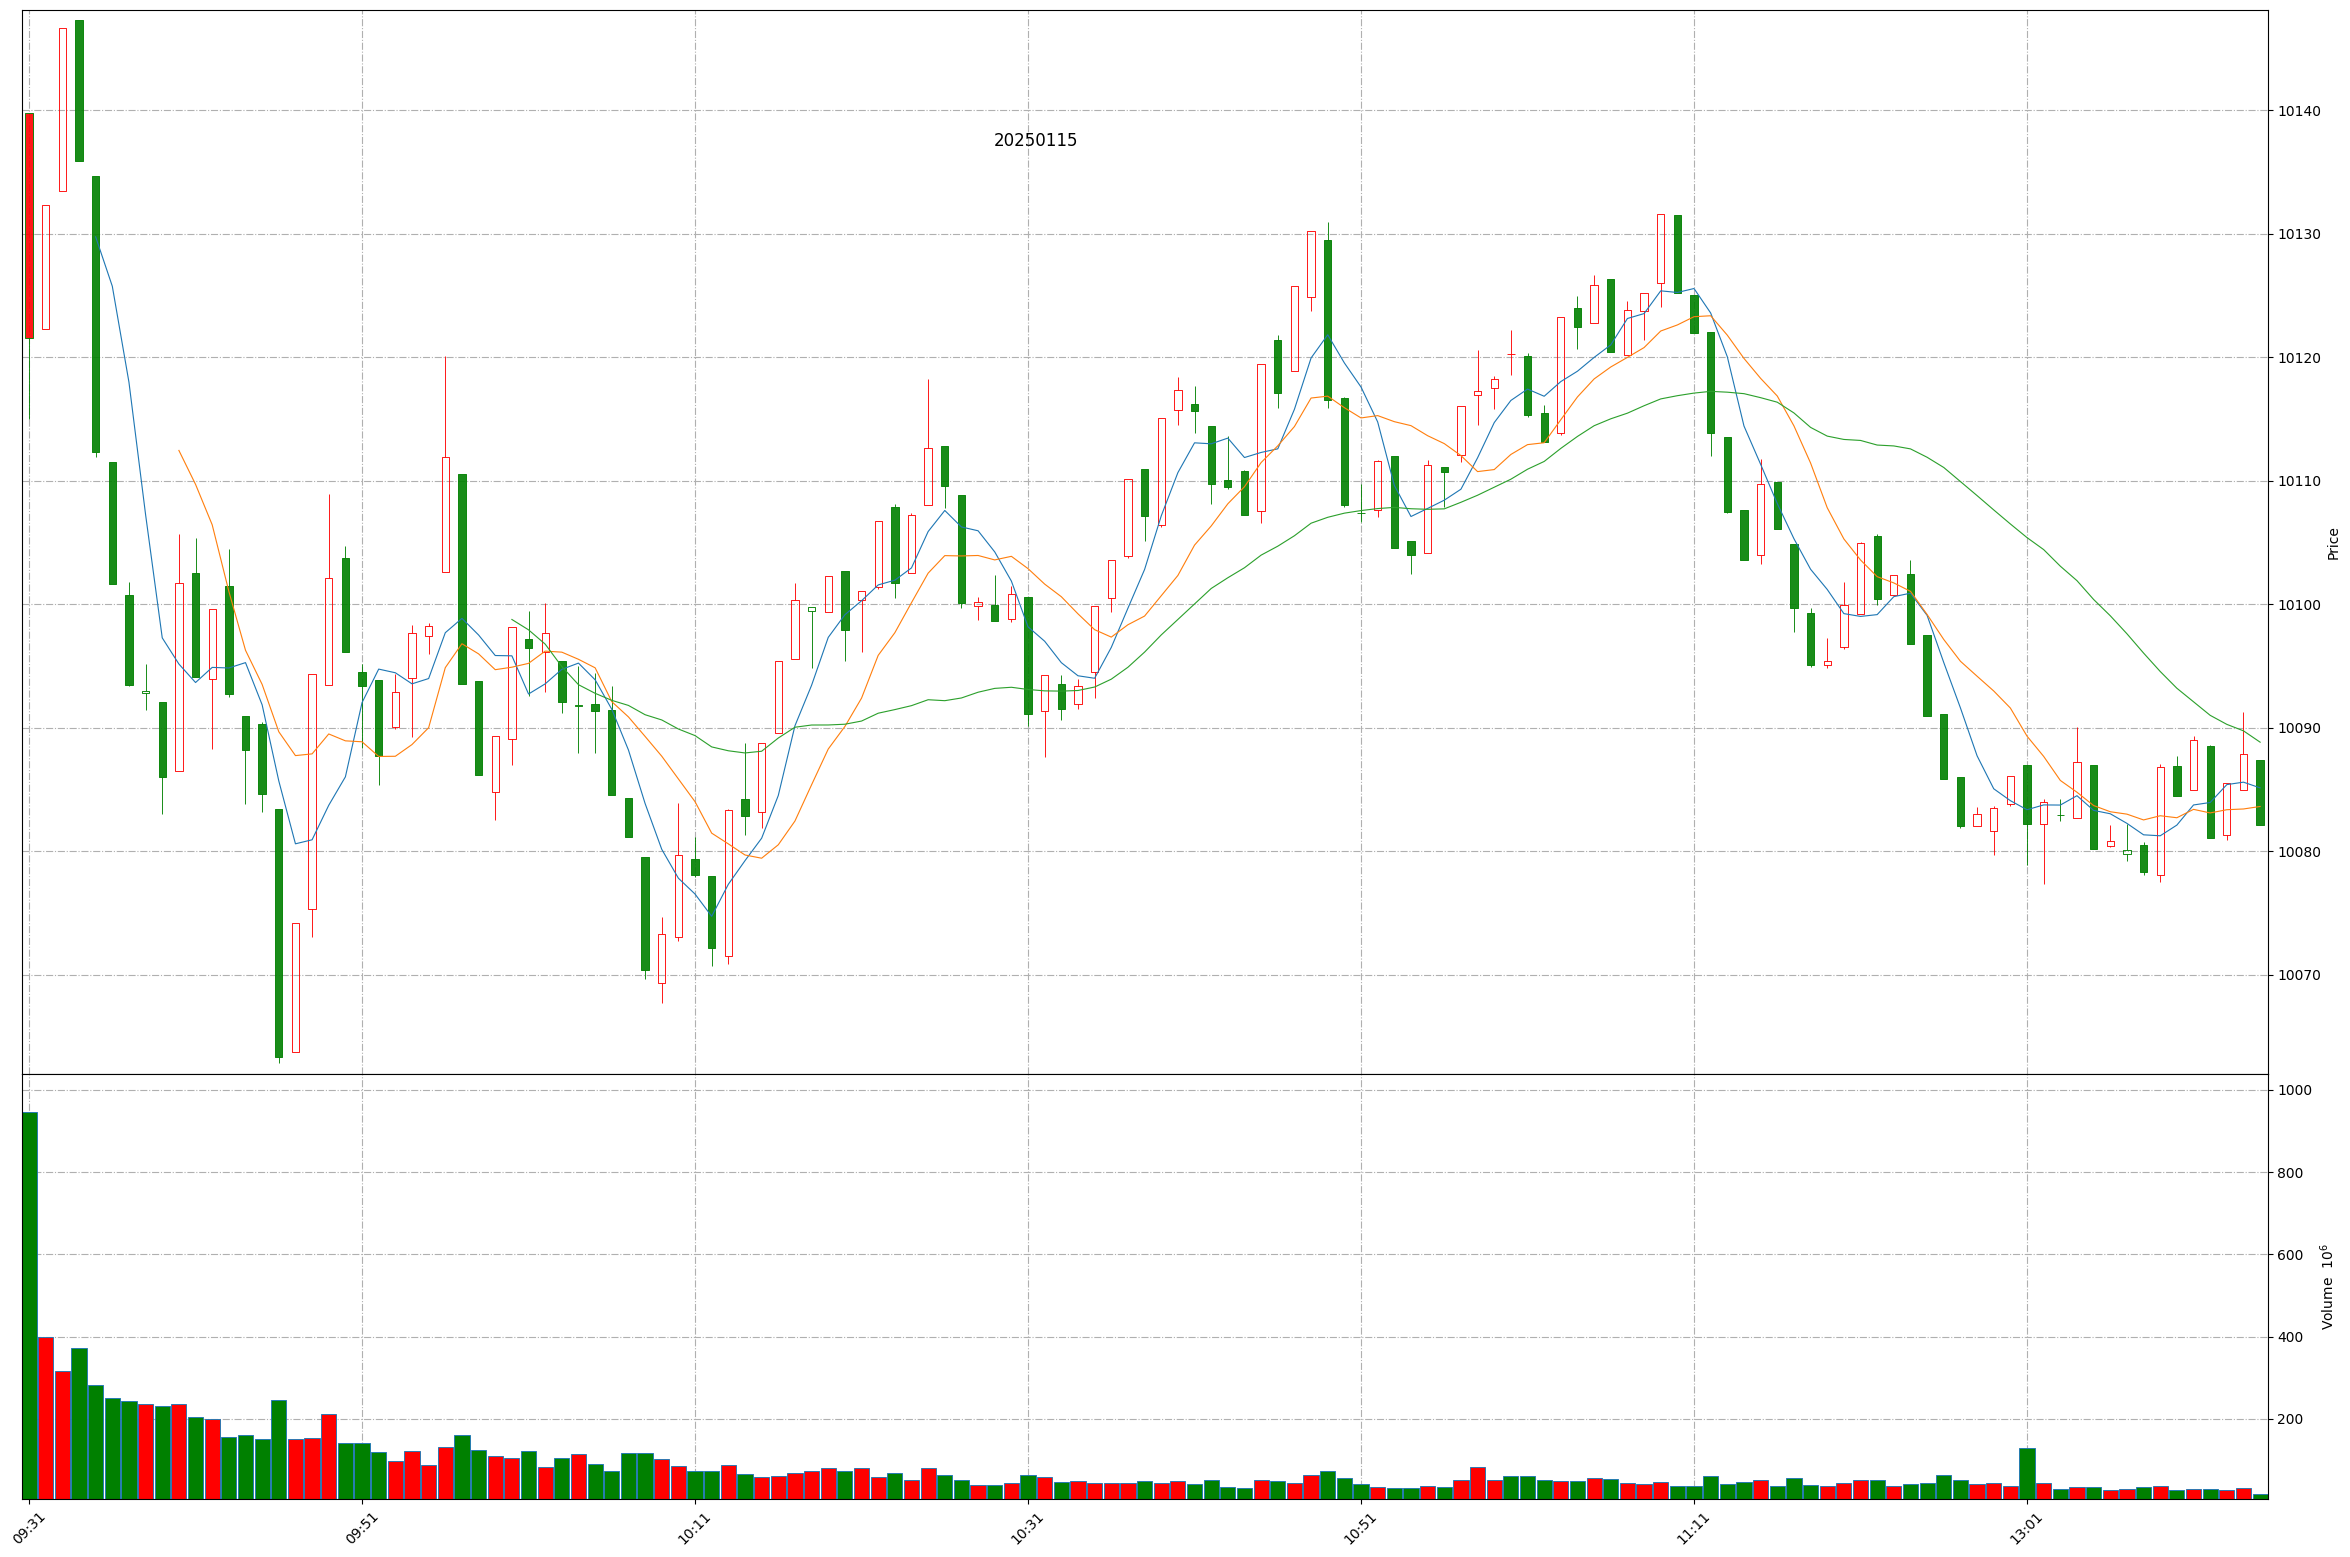
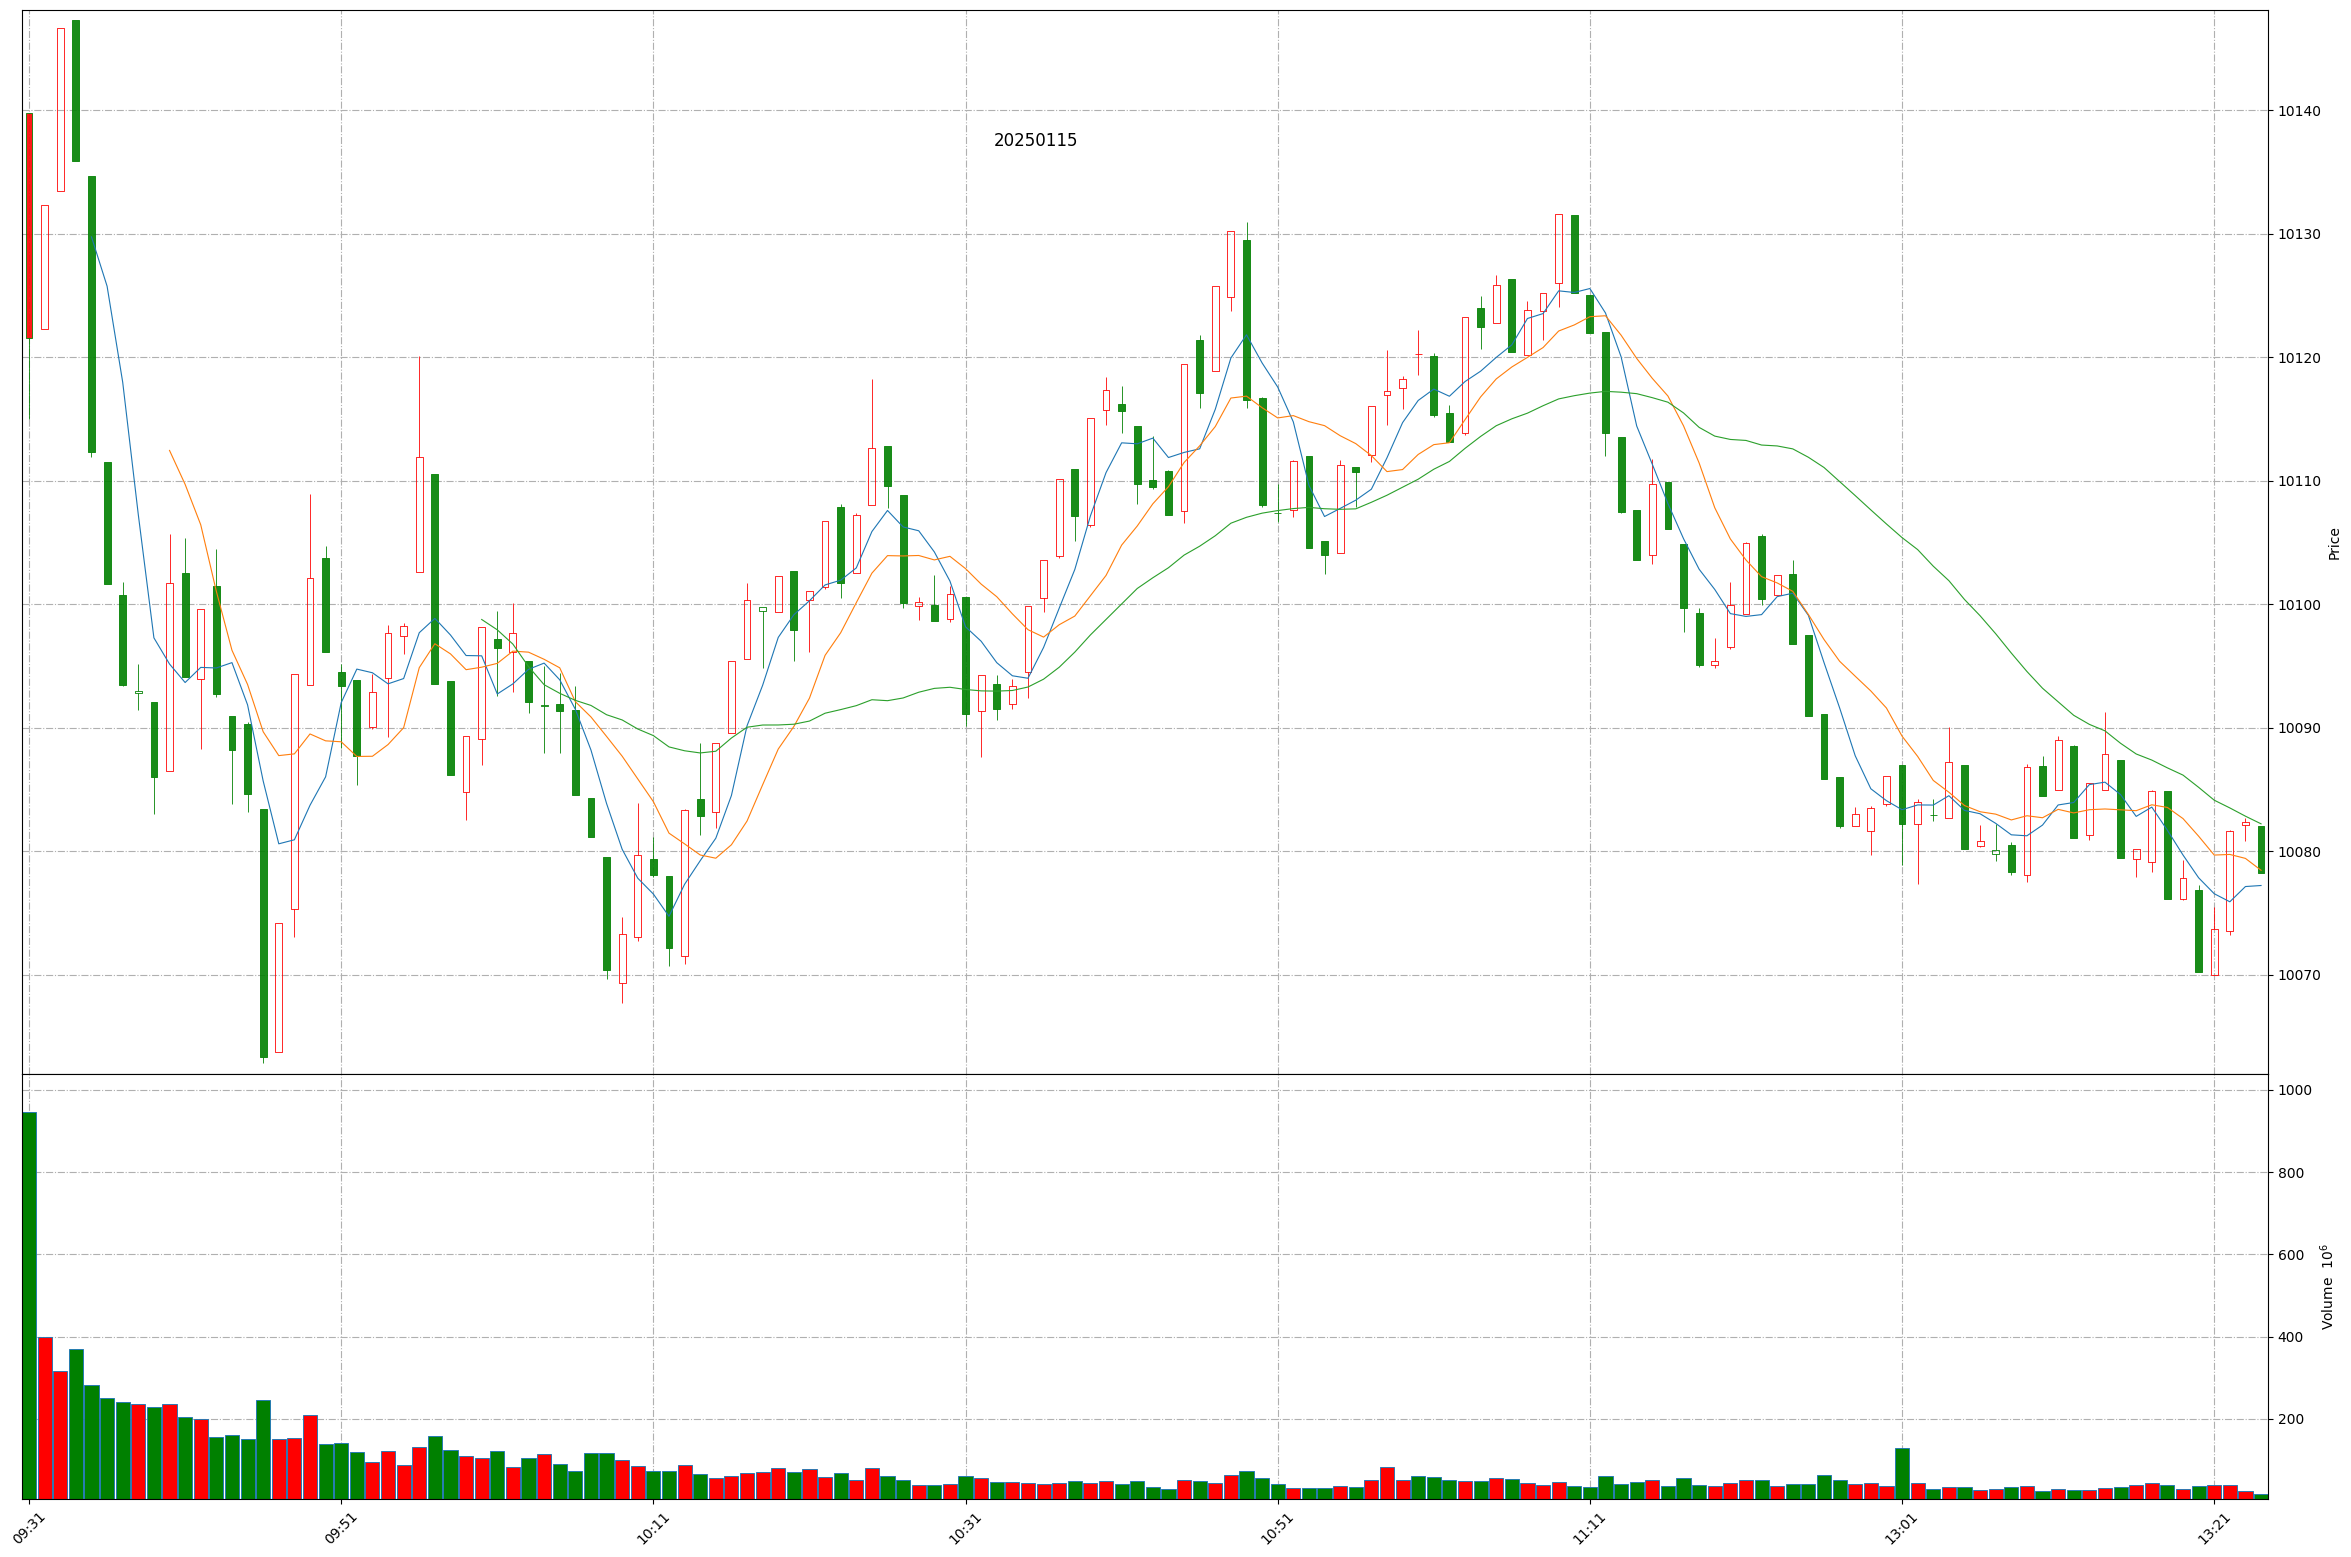
Github action update at 2025-01-15 13:23:49.

diff --git a/README.md b/README.md
@@ -1,11 +1,11 @@
 
 # Daily-A-share-market-quotes 每日 A 股指数（5min 更新）- 20250115
 
-### 上证指数 20250115 13:14
+### 上证指数 20250115 13:23
 ![](./fig/2025/1/20250115-sh000001.png)
 
-### 深证成指 20250115 13:14
+### 深证成指 20250115 13:23
 ![](./fig/2025/1/20250115-sz399001.png)
 
-### 北证50 20250115 13:14
+### 北证50 20250115 13:23
 ![](./fig/2025/1/20250115-bj899050.png)
